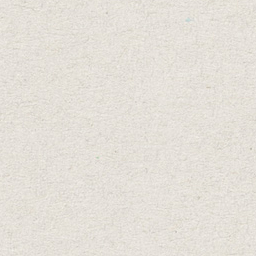
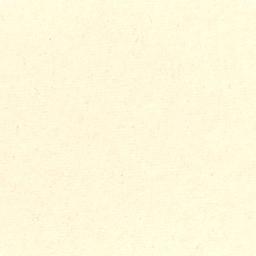
add page numbering and licence free background

diff --git a/websocket-server/server.js b/websocket-server/server.js
@@ -32,6 +32,11 @@ wss.on('connection', function(ws) {
         userId: userId
     }));
 
+    ws.send(JSON.stringify({
+        action: "clearBoard",
+        currentLayer: currentLayer
+    }));
+
     for (var uId in layers[currentLayer]) {
         if (layers[currentLayer].hasOwnProperty(uId)) {
             for (var pId in layers[currentLayer][uId]) {
@@ -55,7 +60,8 @@ wss.on('connection', function(ws) {
                 if (currentLayer != 0) { // ignore if zero
                     //Request clients to clean boards
                     broadcast(wss, null, JSON.stringify({
-                        action: "clearBoard"
+                        action: "clearBoard",
+                        currentLayer: currentLayer - 1
                     }));
 
                     if (currentLayer + 1 == layers.length) {
@@ -90,7 +96,8 @@ wss.on('connection', function(ws) {
                 //Request clients to clean boards
                 if (Object.keys(layers[currentLayer]).length != 0 || currentLayer + 1 < layers.length) {
                     broadcast(wss, null, JSON.stringify({
-                        action: "clearBoard"
+                        action: "clearBoard",
+                        currentLayer: currentLayer + 1
                     }));
 
                     //create layer if nessesary
@@ -154,7 +161,8 @@ wss.on('connection', function(ws) {
                 layers[currentLayer] = {};
 
                 broadcast(wss, ws, JSON.stringify({
-                    action: "clearBoard"
+                    action: "clearBoard",
+                    currentLayer: currentLayer
                 }));
                 break;
             default:

diff --git a/web/index.html b/web/index.html
@@ -4,6 +4,7 @@
     <title>Shared Whiteboard</title>
     <link rel="stylesheet" type="text/css" href="assets/style.css">
     <link rel="stylesheet" type="text/css" href="https://cdnjs.cloudflare.com/ajax/libs/font-awesome/5.13.0/css/all.min.css">
+    <link href="https://fonts.googleapis.com/css?family=Lato&display=swap" rel="stylesheet">
     <meta http-equiv="Cache-Control" content="no-cache, no-store, must-revalidate" />
     <meta http-equiv="Pragma" content="no-cache" />
     <meta http-equiv="Expires" content="0" />
@@ -24,6 +25,7 @@
 	</div>
 	<div class="bg"></div>
 	<canvas id="canvas" resize></canvas>
+	<div id="pageNr">1</div>
 	<script type="text/javascript" src="assets/websockets.js"></script>
 	<script type="text/javascript" src="assets/nav.js"></script>
 	<script type="text/javascript" src="https://cdnjs.cloudflare.com/ajax/libs/paper.js/0.12.2/paper-full.min.js"></script>

diff --git a/web/assets/websockets.js b/web/assets/websockets.js
@@ -2,8 +2,7 @@ globals = {
     userId: "",
     socket: {
         init: () => {
-            // let url = "ws://localhost:8081/api";
-            let url = "ws://192.168.2.89:8081/api";
+            let url = "wss://thuis.andries-salm.com/shared-whiteboard/ws";
             let socket = new WebSocket(url);
 
             socket.onopen = function(e) {
@@ -60,6 +59,7 @@ globals = {
                         break;
                     case "clearBoard":
                         globals.clearBoard();
+                        document.getElementById("pageNr").innerHTML = data.currentLayer + 1;
                         break;
                     default:
                         console.log("[Unknown message] " + event.data);

diff --git a/web/assets/style.css b/web/assets/style.css
@@ -41,6 +41,15 @@ html, body {
 	opacity: 0.5;
 }
 
+#pageNr {
+	position: fixed;
+	bottom: 20px;
+	right: 20px;
+	cursor: default;
+	z-index: +10;
+	font-family: 'Lato';
+}
+
 #canvas {
 	position: fixed;
 	left: 0;

diff --git a/README.md b/README.md
@@ -1,2 +1,34 @@
 # shared-whiteboard
 Share a whiteboard using websockets
+
+## Install
+In folder websocket-server run
+
+	npm install ws
+	npm install http-server -g
+
+Update web/assets/websockets.js to point to the websocket url
+
+## Run the server
+In the folder websocket server run
+
+	node server.js
+
+In the folder web run
+
+	http-server
+
+## Wishlist
+
+Long-term wishlist:
+
+1. Show screensizes
+2. Authentication
+3. Using Socket.js
+4. Using multiple colors
+5. Using multiple rooms
+5. Save data
+
+
+
+
